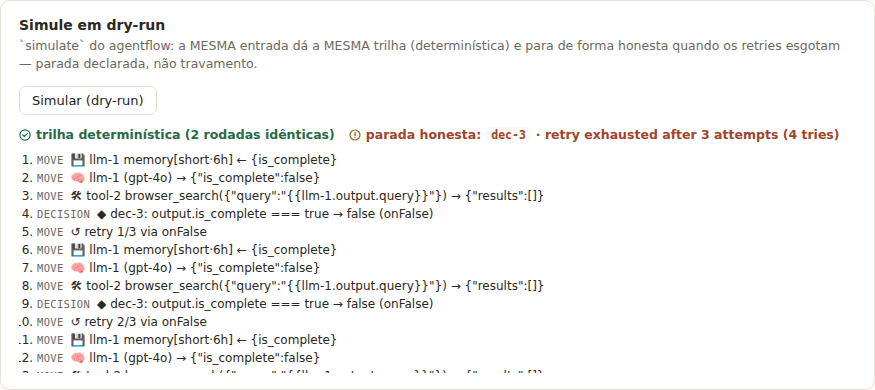
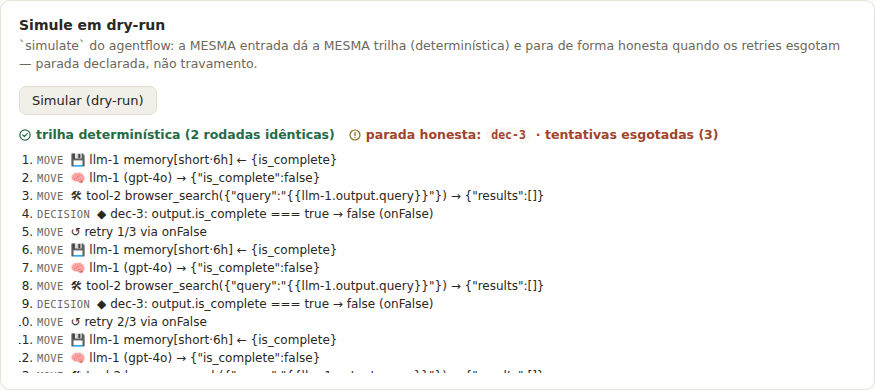
fix(p4/c5): parada honesta é copy do host — motivo do BlockedDecision localizado
O `reason` do BlockedDecision vem cru do engine em EN (ex.: «retry exhausted after
3 attempts») — interpolá-lo na frase PT quebrava o critério «toggle troca TODA a UI».
Correção (localizeBlockedReason): o caso estável «retry esgotado» é mapeado para o
dict (run.c5.dry.retry — PT «tentativas esgotadas (3)» / EN «retry exhausted (3
attempts)»). Motivos arbitrários viram FRONTEIRA declarada: o texto do engine é
exibido rotulado como técnico (run.c5.dry.enginereason + .pg-agent2h-enginetag),
nunca como copy do host. Registrado como nota upstream em docs/known-issues.md #2
(pedido de códigos de motivo estáveis para BlockedDecision).

e2e p4-c5: novo teste assevera o toggle EN⇄PT trocando o motivo + ausência da string
crua do engine. Screenshot do painel dry-run atualizado.

Claude-Session: https://claude.ai/code/session_01AwSjjuUTdugAbEvERrQwXu

Changed region(s): [[0.6171, 0.3077, 0.9566, 0.3692]]

diff --git a/src/agent-to-human/ScenarioAgentToHuman.tsx b/src/agent-to-human/ScenarioAgentToHuman.tsx
@@ -17,6 +17,7 @@ import { useCallback, useMemo, useState } from 'react';
 import { BpmnDesigner, AgentStudio } from '@buildtovalue/react';
 import type { SimulationState } from '@buildtovalue/agentflow';
 import { useLang } from '../i18n/index.js';
+import type { DictKey } from '../i18n/index.js';
 import { useLibMessages } from '../i18n/libMessages.js';
 import { PLUGINS } from '../plugins.js';
 import { publishEditorEvent } from '../scenarioEvents.js';
@@ -35,6 +36,19 @@ import './agent2h.css';
 
 type DryRun = { trail: SimulationState['trail']; blocked: SimulationState['blockedDecision']; deterministic: boolean };
 type Escalation = ReturnType<typeof boundaryUndoableCheck>;
+
+/**
+ * Localiza o motivo do BlockedDecision. O engine devolve `reason` como texto livre
+ * em EN (sem código estável — ver docs/known-issues.md #2). O caso «retry esgotado»
+ * tem padrão estável → mapeamos para o dict (toggle troca TODA a UI). Motivos
+ * arbitrários viram FRONTEIRA declarada: o texto do engine, rotulado como técnico —
+ * nunca interpolado como se fosse copy do host.
+ */
+function localizeBlockedReason(reason: string, t: (k: DictKey) => string): { text: string; technical: boolean } {
+  const m = /retry exhausted after (\d+) attempts/.exec(reason);
+  if (m) return { text: t('run.c5.dry.retry').replace('{n}', m[1]), technical: false };
+  return { text: reason, technical: true };
+}
 
 export function ScenarioAgentToHuman() {
   const { t } = useLang();
@@ -122,12 +136,17 @@ export function ScenarioAgentToHuman() {
                 {sim.deterministic ? <Check size={12} /> : <AlertCircle size={12} />}
                 {t('run.c5.dry.deterministic')}
               </span>
-              {sim.blocked && (
-                <span className="pg-agent2h-stop">
-                  <AlertCircle size={12} />
-                  {t('run.c5.dry.blocked')}: <code>{sim.blocked.nodeId}</code> · {sim.blocked.reason}
-                </span>
-              )}
+              {sim.blocked &&
+                (() => {
+                  const r = localizeBlockedReason(sim.blocked.reason, t);
+                  return (
+                    <span className="pg-agent2h-stop">
+                      <AlertCircle size={12} />
+                      {t('run.c5.dry.blocked')}: <code>{sim.blocked.nodeId}</code> ·{' '}
+                      {r.technical && <span className="pg-agent2h-enginetag">{t('run.c5.dry.enginereason')}</span>} {r.text}
+                    </span>
+                  );
+                })()}
             </div>
             <ol className="pg-agent2h-trail">
               {sim.trail.map((r, i) => (

diff --git a/tests/p4-c5.spec.ts b/tests/p4-c5.spec.ts
@@ -35,8 +35,12 @@ test('C5: agentTask + AgentStudio; dry-run determinístico + parada honesta; esc
   await page.locator('[data-testid="agent-simulate"]').click();
   await expect(page.locator('[data-testid="dry-run-result"]')).toBeVisible();
   await expect(page.locator('.pg-agent2h-ok')).toContainText(/determinística|deterministic/);
-  await expect(page.locator('.pg-agent2h-stop')).toBeVisible(); // BlockedDecision honesta
   await expect(page.locator('.pg-run-progress')).toHaveText(/2.*4/);
+
+  // A parada honesta é COPY DO HOST (dict), não texto de engine em EN interpolado:
+  // em PT rende «tentativas esgotadas (3)» e a string crua do engine não aparece.
+  await expect(page.locator('.pg-agent2h-stop')).toContainText('tentativas esgotadas (3)');
+  await expect(page.locator('.pg-agent2h-stop')).not.toContainText(/after \d+ attempts/);
 
   // Passo 2: a escalação agente→humano é 1 comando undoable.
   await page.locator('[data-testid="agent-escalation"]').click();
@@ -63,4 +67,22 @@ test('C5: agentTask + AgentStudio; dry-run determinístico + parada honesta; esc
   await page.locator('.pg-run-actions').getByRole('button', { name: /Reiniciar/ }).click();
   await expect(page.locator('.pg-run-progress')).toHaveText(/1.*4/);
   await expect(page.locator('[data-testid="dry-run-result"]')).toHaveCount(0);
+});
+
+test('C5: a parada honesta é copy do host — o toggle EN⇄PT troca o motivo', async ({ page }) => {
+  await disableTour(page);
+  await page.goto('/scenario/agent-to-human');
+  await page.locator('[data-testid="agent-simulate"]').click();
+
+  const stop = page.locator('.pg-agent2h-stop');
+  // PT (padrão): motivo mapeado no dict, sem a string crua do engine.
+  await expect(stop).toContainText('tentativas esgotadas (3)');
+  await expect(stop).not.toContainText(/after \d+ attempts/);
+
+  // Toggle (Cmd+K → idioma) troca TODA a UI — o motivo vira a copy EN do host.
+  await page.keyboard.press('Control+k');
+  await page.locator('.pg-cmdk-input').fill('idioma');
+  await page.keyboard.press('Enter');
+  await expect(stop).toContainText('retry exhausted (3 attempts)');
+  await expect(stop).not.toContainText('tentativas esgotadas');
 });

diff --git a/src/agent-to-human/agent2h.css b/src/agent-to-human/agent2h.css
@@ -81,6 +81,18 @@
   padding: 1px 5px;
   border-radius: 4px;
 }
+/* Rótulo de fronteira: um motivo de engine NÃO-mapeado é marcado como técnico
+   (nunca passado como copy do host). Ver docs/known-issues.md #2. */
+.pg-agent2h-enginetag {
+  font-size: 10px;
+  text-transform: uppercase;
+  letter-spacing: 0.04em;
+  color: var(--pg-muted, #6e675c);
+  border: 1px dashed var(--pg-line, #d9c98a);
+  border-radius: 4px;
+  padding: 0 5px;
+  margin-right: 4px;
+}
 .pg-agent2h-trail {
   margin: 0;
   padding-left: 18px;

diff --git a/src/i18n/dict.ts b/src/i18n/dict.ts
@@ -437,6 +437,10 @@ export const DICT = {
   'run.c5.dry.action': { pt: 'Simular (dry-run)', en: 'Simulate (dry-run)' },
   'run.c5.dry.deterministic': { pt: 'trilha determinística (2 rodadas idênticas)', en: 'deterministic trail (2 identical runs)' },
   'run.c5.dry.blocked': { pt: 'parada honesta', en: 'honest stop' },
+  // Motivo do BlockedDecision: o caso «retry esgotado» é mapeado p/ o dict (toggle
+  // troca TODA a UI). Motivos arbitrários do engine viram fronteira declarada (rótulo).
+  'run.c5.dry.retry': { pt: 'tentativas esgotadas ({n})', en: 'retry exhausted ({n} attempts)' },
+  'run.c5.dry.enginereason': { pt: 'motivo do engine (técnico):', en: 'engine reason (technical):' },
   'run.c5.esc.h': { pt: 'Escalação agente → humano', en: 'Agent → human escalation' },
   'run.c5.esc.sub': { pt: 'Anexar o boundary de erro (a escalação para um humano) é UM comando pelo command bus — e é desfazível. Aceitar no macro nunca é irreversível.', en: 'Attaching the error boundary (the escalation to a human) is ONE command over the command bus — and it is undoable. Accepting in the macro is never irreversible.' },
   'run.c5.esc.action': { pt: 'Provar escalação (1 undo)', en: 'Prove escalation (1 undo)' },

diff --git a/docs/known-issues.md b/docs/known-issues.md
@@ -105,3 +105,14 @@ matriz de contrato). A correção é **upstream** e será medida contra a matriz
 quando corrigida, o `test.fixme` de `tests/subprocess-roundtrip.spec.ts` passa a rodar
 verde e o `tests/p3-n1.spec.ts` deixa de reproduzir o bug (3 → 3). Aqui apenas avisamos
 no import (`detectImportLoss` → `import.loss.note`) e transportamos JSON no permalink.
+
+## 2. `BlockedDecision.reason` do agentflow é texto livre em EN (sem código estável)
+
+**Severidade:** baixa (i18n — barreira de tradução, não perda de dados).
+**Onde:** `@buildtovalue/agentflow` — `simulate()` devolve `blockedDecision: { nodeId, cell, reason }`, e `reason` é a explicação humana **em inglês, interpolada** (ex.: `retry exhausted after 3 attempts (4 tries)` em `simulate.ts:225`). `cell` nomeia *o que* bloqueou (a rota), não *por quê* de forma estável.
+
+**Impacto no bpmnPlay (C5 «agent-to-human»):** o critério «o toggle troca TODA a UI» exige que a parada honesta seja copy do host. Como `reason` vem cru do engine em EN, interpolá-lo numa frase PT quebraria o critério.
+
+**Mitigação (host):** `src/agent-to-human/ScenarioAgentToHuman.tsx` (`localizeBlockedReason`) **mapeia o caso estável** «retry esgotado» para o dict (`run.c5.dry.retry`, PT/EN) — é o único motivo que este cenário determinístico produz. Motivos **arbitrários** (não mapeáveis) viram **fronteira declarada**: o texto do engine é exibido **rotulado como técnico** (`run.c5.dry.enginereason` + `.pg-agent2h-enginetag`), nunca passado como se fosse copy do host.
+
+**Ação (nota upstream):** pedir à lib **códigos de motivo estáveis** para `BlockedDecision` (um enum/kind + parâmetros, ex.: `{ kind: 'retryExhausted', attempts: 3 }`), para que o host possa localizar **todo** motivo em vez de só o caso mapeado. Enquanto não houver, a fronteira declarada acima é a leitura honesta.